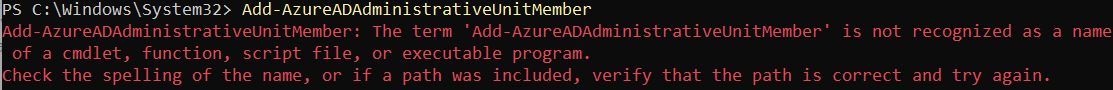
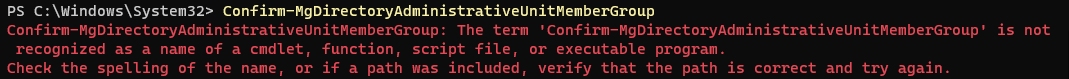
Updated the profile error image and minor edits

diff --git a/microsoftgraph/docs-conceptual/troubleshooting.md b/microsoftgraph/docs-conceptual/troubleshooting.md
@@ -14,7 +14,7 @@ reviewer: maisarissi,peombwa
 
 This article explains how to determine, diagnose, and fix issues that you might encounter when using Microsoft Graph PowerShell.
 
-Before troubleshooting any errors, make sure that you're running the most recent version of the SDK. To get the SDK version you're running, run:
+Before troubleshooting any errors, make sure that you're running the most recent version of the Microsoft Graph PowerShell SDK. To get the SDK version you're running, run:
 
 ```powershell
 Get-InstalledModule
@@ -30,7 +30,7 @@ Update-Module Microsoft.Graph
 
 By default the Microsoft Graph PowerShell commands target the v1.0 API version. Commands for APIs that are only available in beta aren't available in PowerShell by default. As a result, you might encounter an error if you run a command that isn't available in your current profile.
 
-For example, when I run a cmdlet not available in my current profile, I'll get the error below:
+For example, when you run a cmdlet that's not available in your current profile, you'll get the error below. This error can also occur if the cmdlet you run does not exist.
 
 :::image type="content" source="images/profile-error.png" alt-text="profile-related-error"::: 
 
@@ -40,13 +40,13 @@ To check the API version targeted by your command, run:
 Find-MgGraphCommand -Command $CommandName
 ```
 
-Once you've established the right API version to target, confirm your current profile by running:
+Once you establish the right API version to target, confirm your current profile by running:
 
 ```powershell
 Get-MgProfile
 ```
 
-Use Select-MgProfile to switch between **v1.0** and **beta** versions of the API. To switch to the beta version, run:
+Use `Select-MgProfile` to switch between **v1.0** and **beta** versions of the API. To switch to the beta version, run:
 
 ```powershell
 Select-MgProfile -Name Beta
@@ -80,13 +80,13 @@ Run `Connect-MgGraph -Scopes Application.ReadWrite.All` and retry to correct the
 
 For app-only access, pre-configure the applications permissions your app needs when you register your app. Application permissions will require administrator consent, which can be consented to either using the [Azure portal](/graph/auth-v2-service) or using a sign-up experience in your app.
 
-Alternatively, use [New-MgServicePrincipalAppRoleAssignment](/powershell/module/microsoft.graph.applications/new-mgserviceprincipalapproleassignment) to assign app role to your client app.
+Alternatively, use [New-MgServicePrincipalAppRoleAssignment](/powershell/module/microsoft.graph.applications/new-mgserviceprincipalapproleassignment) to assign app roles to your app.
 
 For more info, see [app-only authentication](app-only.md).
 
 ## Using -Debug
 
-The -Debug parameter provides a powerful way to examine a script while it's running to identify and correct errors in the script. The following are the important parts of a -Debug output:
+The **-Debug** parameter provides a powerful way to examine a script while it's running to identify and correct errors in the script. The following are the important parts of a **-Debug** output:
 
 1. **cmdletBeginProcessing** - this part allows you to confirm the cmdlet you're running and the parameter list provided to the cmdlet. For example, `DEBUG: [CmdletBeginProcessing]: - Get-MgUser begin processing with parameterSet 'List1'.` shows that we're running the `Get-MgUser` cmdlet and the parameter list is `List1`.
 1. **AuthType** - will either be `delegated` or `application`.
@@ -94,7 +94,7 @@ The -Debug parameter provides a powerful way to examine a script while it's runn
 1. **Scopes** - shows all the scopes that you've authenticated to for the particular application, acquired by decoding the access token and getting the SCP claim.
 1. **HTTP request** - comprises of:
     1. Method - could be GET, POST, PUSH, UPDATE
-    1. Uri - Uri will change based on the cloud you're connected to and the version of the SDK you're connected to.
+    1. URI - URI will change based on the cloud you're connected to and the version of the SDK you're connected to.
     1. Body - shows the body of your request.
 1. **HTTP response** - will comprise of the following information:
     1. Status code - this part provides the error code returned.
@@ -103,7 +103,7 @@ The -Debug parameter provides a powerful way to examine a script while it's runn
     1. Headers - The most important headers are the `request-id` and `date`. These headers [help the support team](/graph/best-practices-concept#reliability-and-support) to determine the cause of the failure. Use this ID and timestamp as you log any issues for the support team to troubleshoot.
     1. Body - shows what the service returns. The most important part of the body is the `@odata.nextLink`, which provides a link to fetch the next page when the result is in multiple pages. If the request fails, the body will contain the error code and the error message.
 
-To enable debug logging on a per command basis, specify the Debug parameter.
+To enable debug logging on a per command basis, specify the **-Debug** parameter.
 
 ```powershell
 Get-MgUser -UserId 'DoesNotExist' -Debug
@@ -113,19 +113,19 @@ Here's a sample output for this command:
 
 :::image type="content" source="images/sample-debug-response.png" alt-text="sample debug output":::
 
-To enable debug logging for an entire PowerShell session, you set the value of the DebugPreference variable to `Continue`.
+To enable debug logging for an entire PowerShell session, you set the value of the **$DebugPreference** variable to `Continue`.
 
 ```powershell
 $DebugPreference = 'Continue'
 ```
 
-Using the `-Debug` parameter is helpful when you want to open a support ticket. It will allow you to get the `request-id` and `Date` that is required when logging such issues. 
+Using the **-Debug** parameter is helpful when you want to open a support ticket. It will allow you to get the `request-id` and `Date` that is required when logging such issues.
 
 ### Using -ErrorVariable
 
-When you run a PowerShell cmdlet and an error occurs, the error record will be appended to the *automatic variable* named `$error`. When you use the `-ErrorVariable` parameter in a call to a command, the error is assigned to the variable name that you specify. Even when you use the `-ErrorVariable` parameter, the `$error` variable is still updated.
+When you run a PowerShell cmdlet and an error occurs, the error record will be appended to the *automatic variable* named `$error`. When you use the **-ErrorVariable** parameter in a call to a command, the error is assigned to the variable name that you specify. Even when you use the **-ErrorVariable** parameter, the `$error` variable is still updated.
 
-By default, the -ErrorVariable parameter will overwrite the variable with the name that you specify. If you want to append an error to the variable, instead of overwriting it, you can put a plus sign (+) in front of the variable name. For example,
+By default, the **-ErrorVariable** parameter will overwrite the variable with the name that you specify. If you want to append an error to the variable, instead of overwriting it, you can put a plus sign (+) in front of the variable name. For example,
 
 ```powershell
 Get-MgUser -UserId 'f' -ErrorVariable MyError
@@ -136,11 +136,11 @@ $MyError.Count # Should be 2
 
 ### Using ErrorAction
 
-The `-ErrorAction` common parameter allows you to specify which action to take if a command fails. The available options are: **Stop***, **Continue**, **SilentlyContinue**, **Ignore**, or **Inquire**.
+The **-ErrorAction** common parameter allows you to specify which action to take if a command fails. The available options are: **Stop***, **Continue**, **SilentlyContinue**, **Ignore**, or **Inquire**.
 
-When you specify the ErrorAction parameter during a call to a command, the specified behavior will override the `$ErrorActionPreference` variable in Windows PowerShell
+When you specify the **-ErrorAction** parameter during a call to a command, the specified behavior will override the `$ErrorActionPreference` variable in Windows PowerShell
 
-By default, Windows PowerShell uses an error action preference of **Continue**, which means that errors will be written out to the host, but the script will continue to execute. If you set `$ErrorActionPreference` to **Stop** or if you use Stop as the parameter value for -ErrorAction, Windows PowerShell will stop the script execution at the point an error occurs.
+By default, Windows PowerShell uses an error action preference of **Continue**, which means that errors will be written out to the host, but the script will continue to execute. If you set `$ErrorActionPreference` to **Stop** or if you use `Stop` as the parameter value for **-ErrorAction**, Windows PowerShell will stop the script execution at the point an error occurs.
 
 ## Next steps
 
